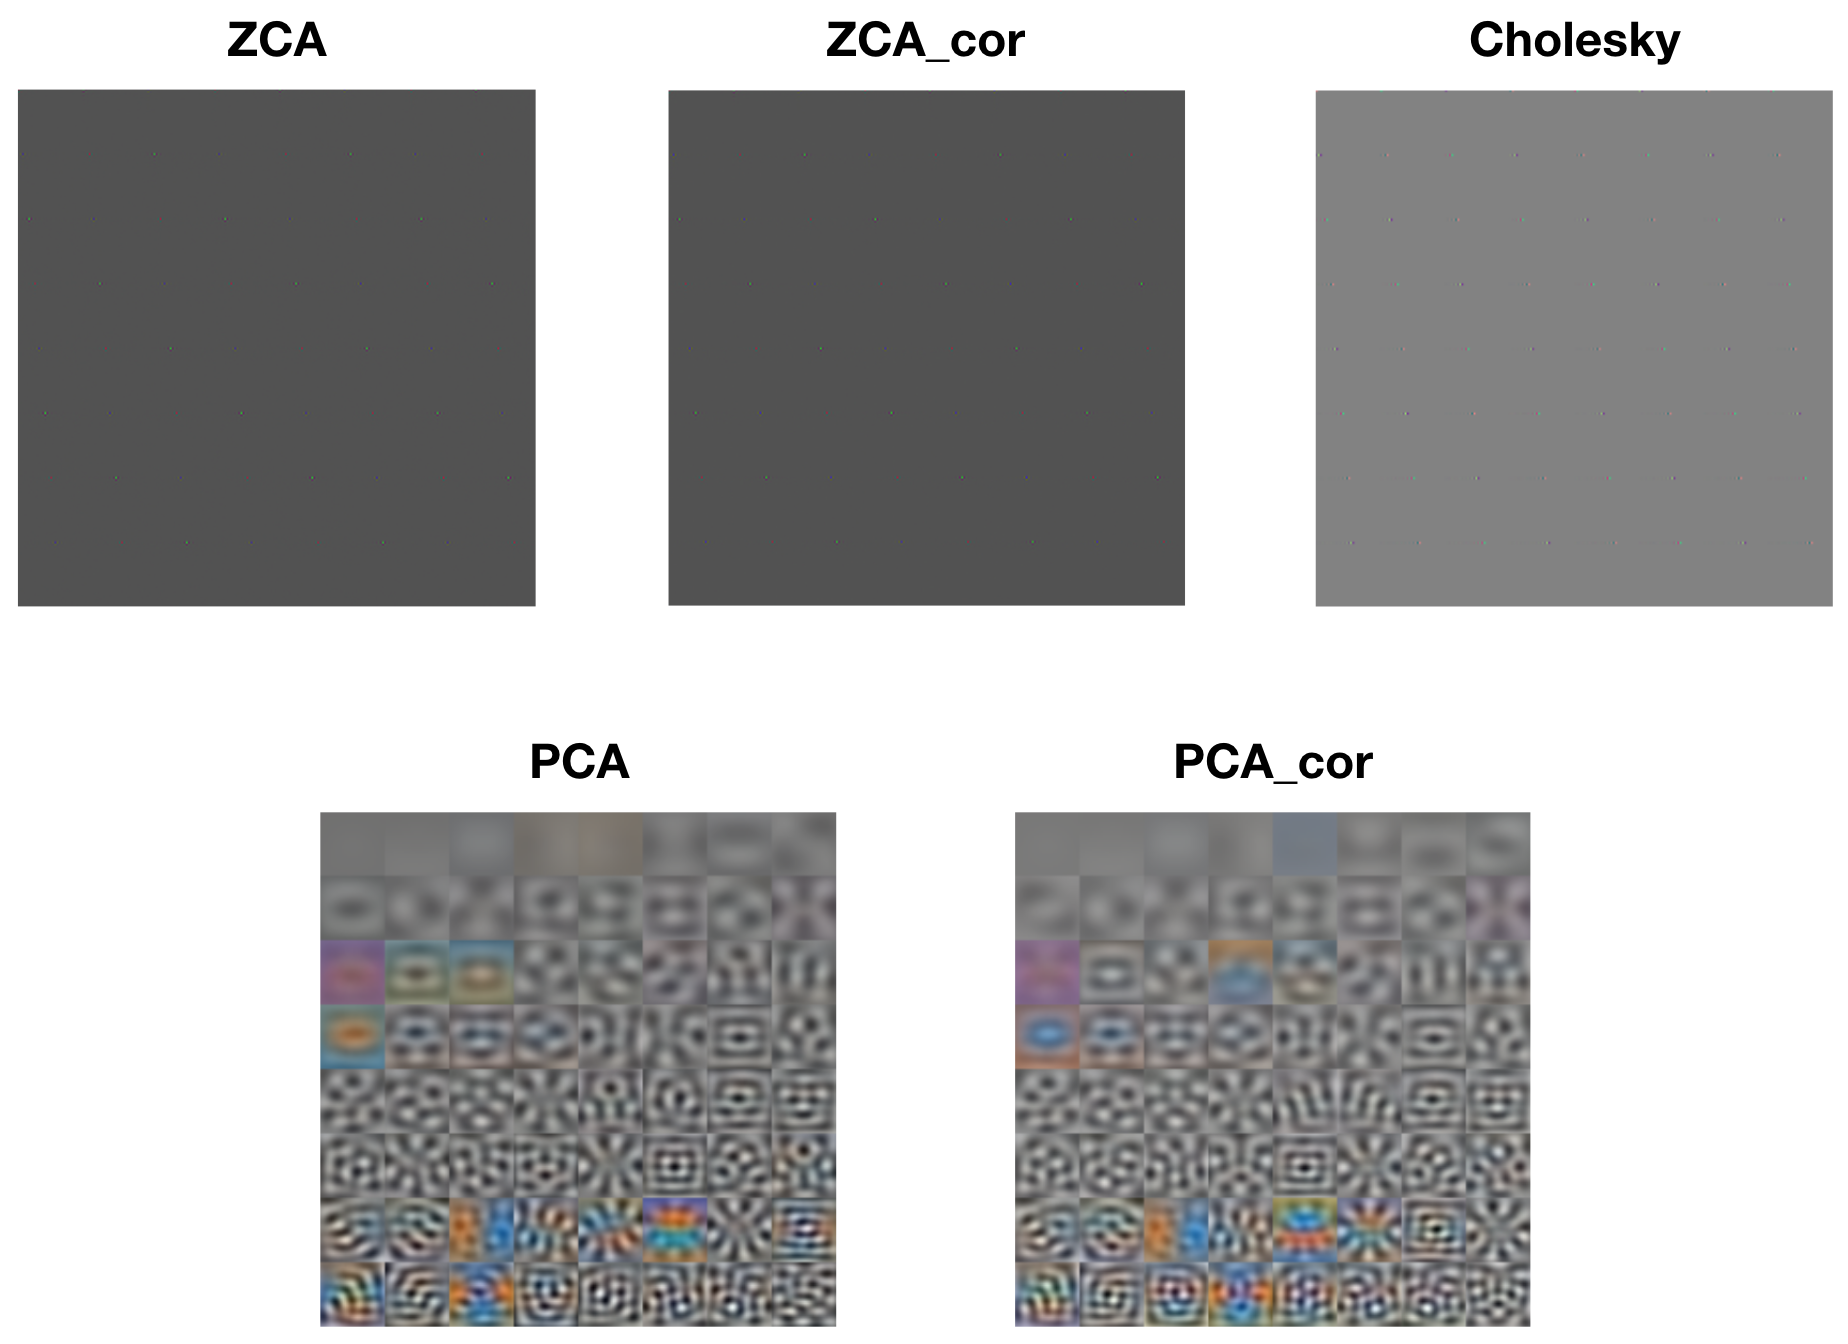
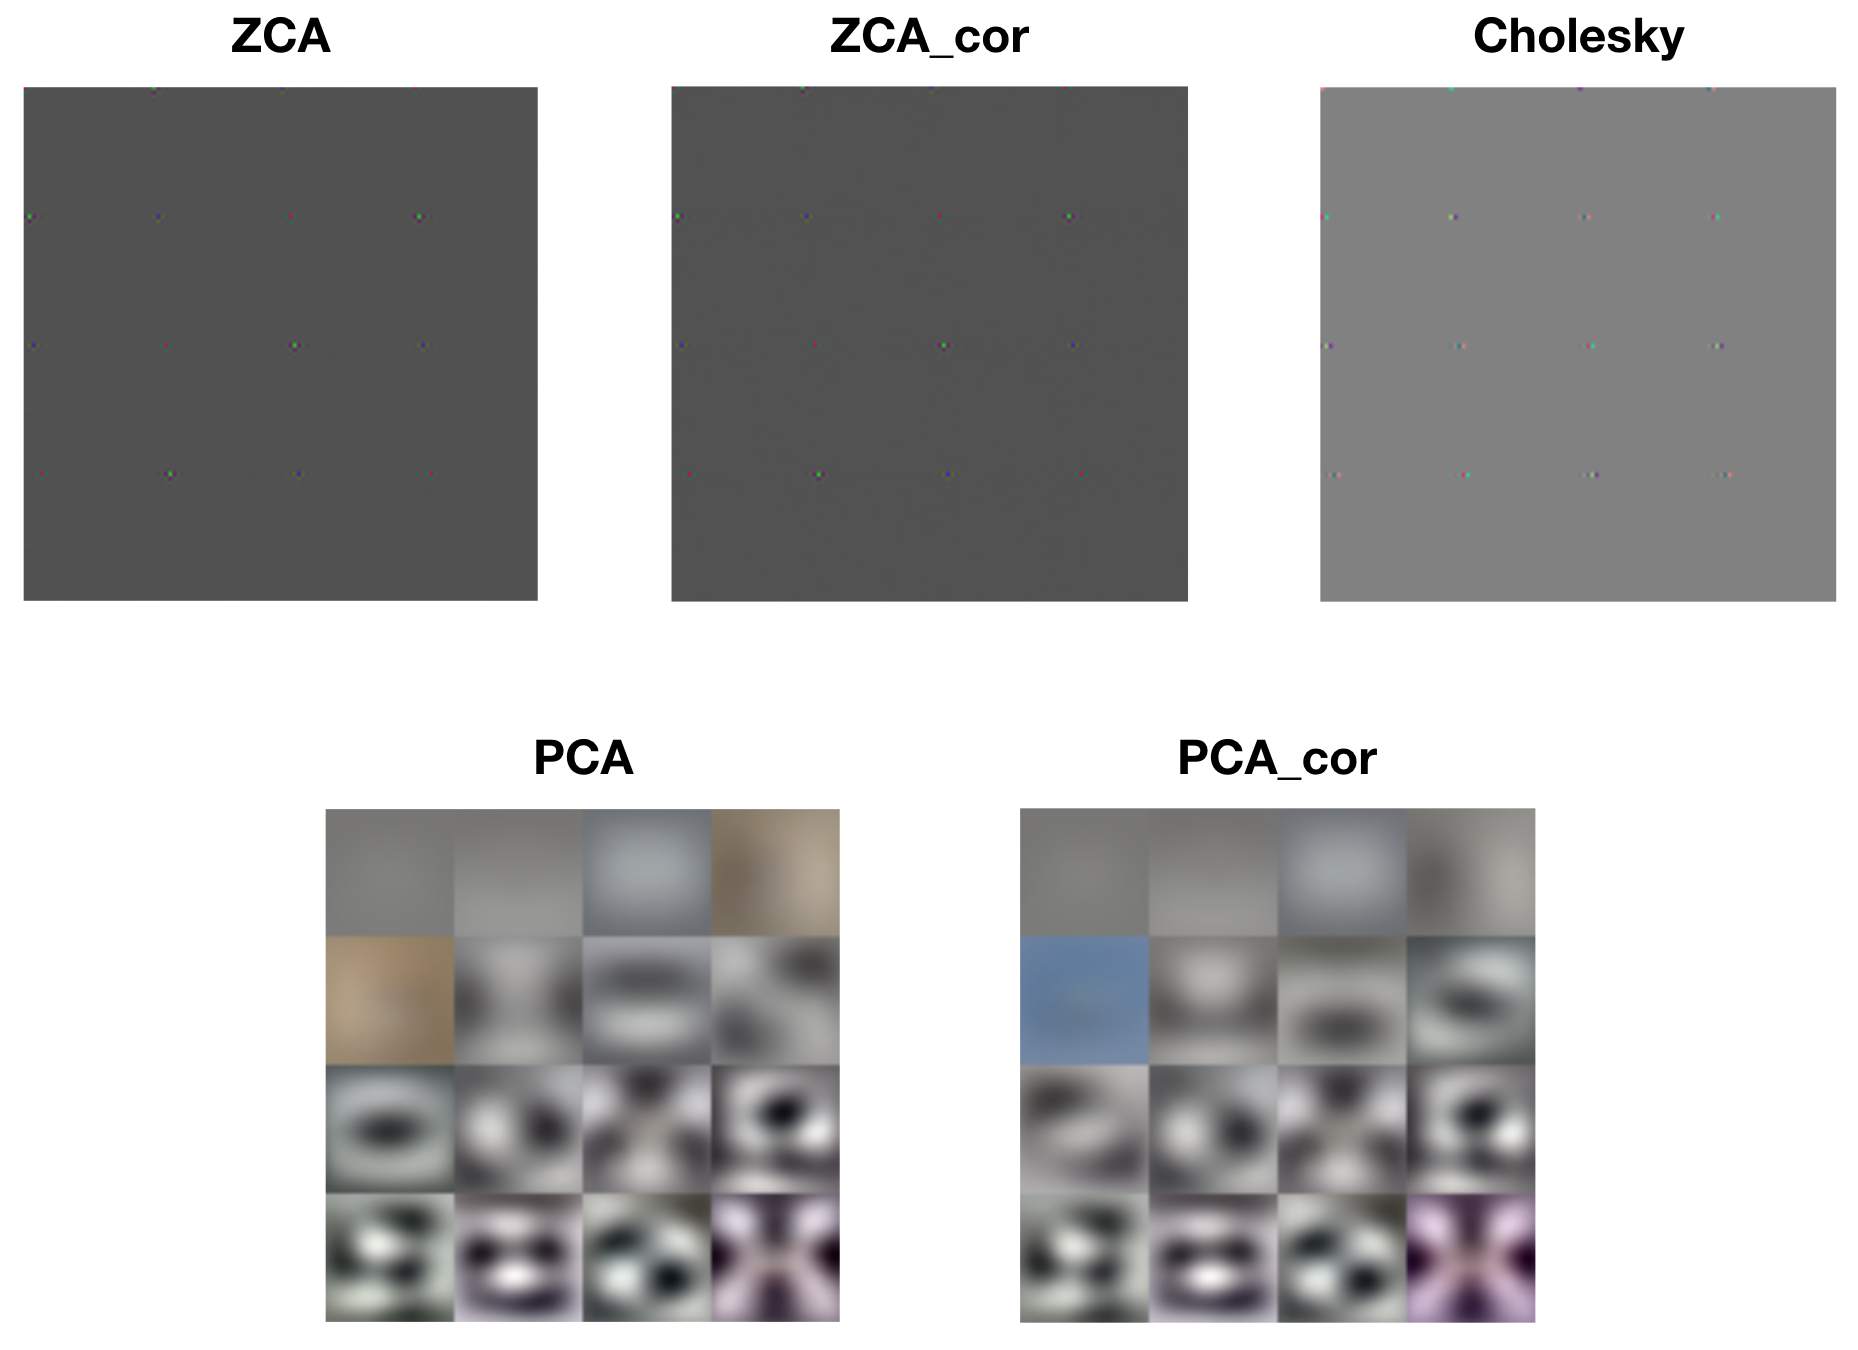
finished blog post

diff --git a/blog_posts/blog_whitening.html b/blog_posts/blog_whitening.html
@@ -317,30 +317,40 @@
                         <center><img src="../images/blog_images/blog_whitening/cifar_10.png" alt="" /></center>
                         
                         <p>
-                        Each of the whitening methods mentioned above results in diagonalized covariance matrices, i.e. dimensions that are linearly decorrelated. However, visualizing the rows of each of the whitening matrices reveals drastically different operations. The following figure displays raster images of the first 64 rows of each of the whitening matrices.
+                        Each of the whitening methods mentioned above results in diagonalized covariance matrices, i.e. dimensions that are linearly decorrelated. However, visualizing the rows of each of the whitening matrices reveals drastically different operations. The following figure displays raster images of the first 16 rows of each of the whitening matrices.
                         </p>
                         
                         <center><img src="../images/blog_images/blog_whitening/bases_comparison.png" alt="" /></center>
                         
                         <p>
-                        Look closely at the ZCA, ZCA_cor, and Cholesky images and you'll notice small patches of light. These are center-surround patches, which select for small changes between neighboring pixels. The following figure shows a close-up of one such patch from ZCA.
+                        Look closely at the ZCA, ZCA_cor, and Cholesky images and you'll notice small patches of light. These are localized <i>center-surround patches</i>, which encode large changes between neighboring pixels. The following figure shows a close-up of one such patch from ZCA.
                         </p>
                         
                         <center><img src="../images/blog_images/blog_whitening/zca_basis.png" alt="" /></center>
                         
                         <p>
-                        The PCA basis filters, on the other hand, are encoding progressively higher spatial frequencies and color patterns. This is consistent with Kessy et al.'s interpretation of PCA and PCA_cor as maximally compressing the input.
+                        The PCA and PCA_cor basis filters, on the other hand, are encoding progressively higher <i>spatial frequencies and color patterns</i>. This is consistent with Kessy et al.'s interpretation of PCA and PCA_cor as maximally compressing the input: first capture the large spatial components, then capture finer and finer details. The following figure shows an example PCA basis vector, which is encoding high spatial and color frequencies.
                         </p>
                         
+                        <center><img src="../images/blog_images/blog_whitening/pca_basis_example.png" alt="" /></center>
+                        
                         <p>
-                        We can also gain a better understanding of each procedure by visualizing whitened images. The following figure displays the first 64 images from the training set, along with their whitened versions from each procedure. The whitened images from ZCA, ZCA_cor, and Cholesky whitening all resemble the original images in form, but the edges are exaggerated. The whitened images from PCA and PCA_cor do not resemble the original images. Rather, the pixels in these whitened images represent the degree to which the corresponding spatial frequency or color patch is present. In other words, PCA and PCA_cor do not produce whitened data that are in the image basis.
+                        We can also gain a better understanding of each procedure by visualizing whitened images. The following figure displays the first 36 images from the training set, along with their whitened versions from each procedure. The whitened images from ZCA, ZCA_cor, and Cholesky whitening all resemble the original images in form, but the edges are exaggerated. This is to be expected, since the basis filters from these procedures are encoding large changes in color and intensity. The whitened images from PCA and PCA_cor do not visually resemble the original images. Rather, each pixel within these whitened images represents the degree to which the corresponding principle component (spatial frequency, color, etc.) is present. That is, PCA and PCA_cor do not produce whitened images that are in the image basis; they are in the eigenbasis.
                         </p>
                         
                         <center><img src="../images/blog_images/blog_whitening/compare_whitened_images.png" alt="" /></center>
                         
                         <h4>
-                            final thoughts: biological connections
+                            final thoughts
                         </h4>
+                        
+                        <p>
+                        Statistical whitening, at least in its multi-dimensional form, is not typically used in current computer vision and deep learning research. At the input level, where images are in the range $[0, 255]$, people often will instead normalize the dataset by dividing all images by $255$, then subtracting $0.5$, bringing the dataset into the range $[-0.5, 0.5]$. In deep networks used for large-scale image classification, it's common practice to instead subtract off the mean of each color channel from the entire dataset. Likewise, other normalization techniques, such as batch normalization, normalize using a per-dimension or per-channel normalization scheme. While these techniques scale the dynamic range of the data and center it around zero, the resulting outputs are still linearly correlated. After learning about whitening, I am now starting to question some of these practices.
+                        </p>
+                        
+                        <p>
+                        For instance, when is it helpful to whiten data, and when does it hurt performance? Do neural networks have an easier time learning from (linearly) decorrelated inputs, or is standard shifting and scaling sufficient? Especially with large datasets, is it easy to <i>learn</i> how to whiten? What about un-whitening? Finally, is it easier to learn a generative model that learns to generate data from the whitened distribution, then transform it back into the data distribution? I imagine that some of these questions were asked and answered during the early days of neural networks, but with the current wave of new normalization methods, it may be beneficial to go back and investigate these points further.
+                        </p>
                         
                     </div>
                 </div>
